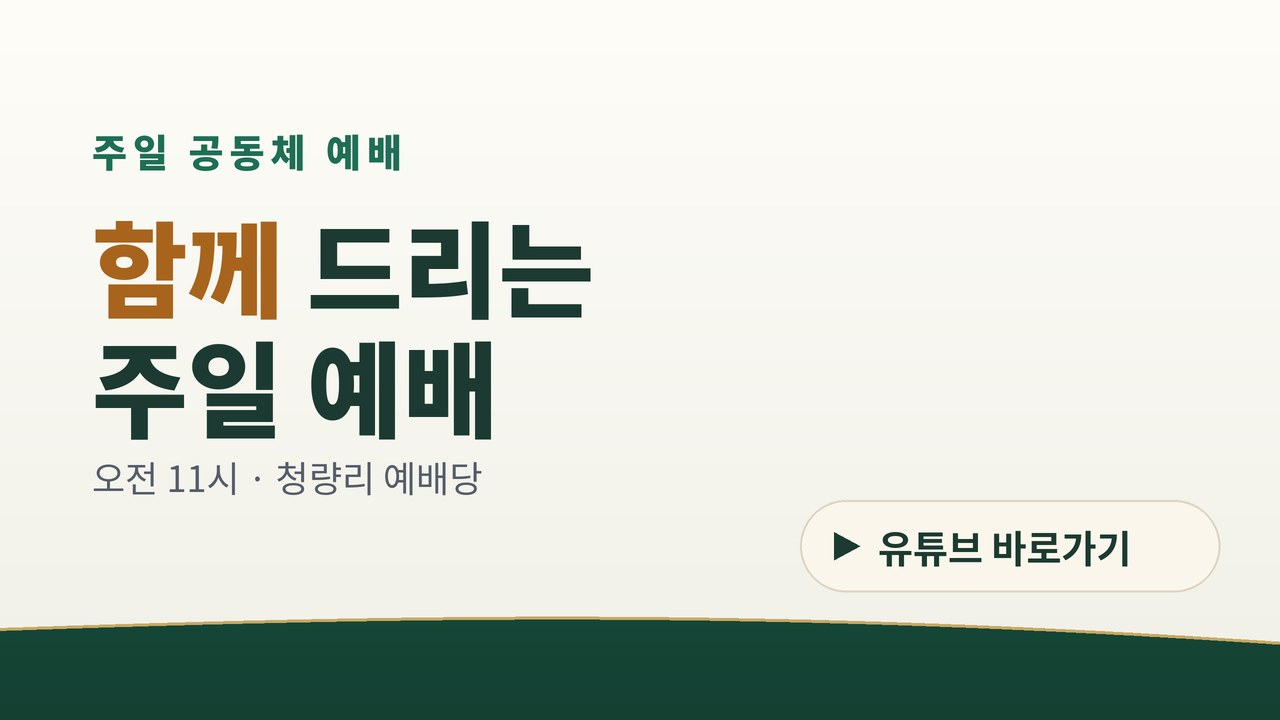
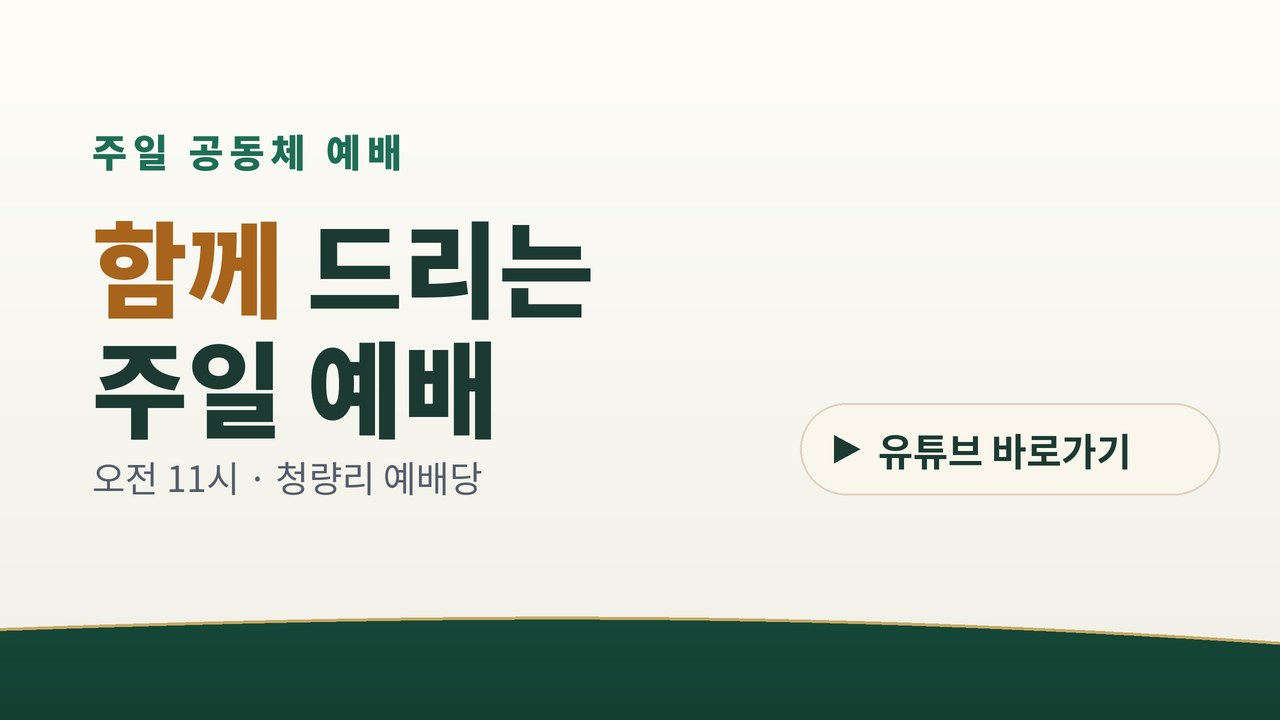
주일·새벽 배너: 그림 윗선·버튼 아랫선 정렬 통일
Claude-Session: https://claude.ai/code/session_01SUQQLDh1VZ9DJkmDKHFesn

Changed region(s): [[0.625, 0.5806, 0.9375, 0.7028], [0.625, 0.7333, 0.9062, 0.7944]]

diff --git a/index.html b/index.html
@@ -718,7 +718,7 @@ function kidsBanner() {   // 어린이 채널 배너(표지 1장) → 채널로 
 const SUNDAY_LIST = 'https://www.youtube.com/playlist?list=PLXuDDjm7EXZo', DAWN_LIST = 'https://www.youtube.com/playlist?list=PLderqM7aVwPk';   // 재생목록 주소를 받으면 여기만 바꾼다
 // 주일 카드: 절기별 배너(마지막 날짜까지). 이후는 기본 배너. 미리보기는 주소 끝에 ?d=2026-12-06
 const SUNDAY_SEASON = [['2026-11-22', 'sunday-creation'], ['2026-12-23', 'sunday-advent'], ['2026-12-30', 'sunday-christmas'], ['2027-01-03', 'sunday-newyear'], ['2027-02-09', 'sunday-epiphany'], ['2027-03-27', 'sunday-lent']];
-const IMG_V = '?v=20261119h';   // 배너 이미지를 바꿀 때 이 날짜도 바꾼다(휴대폰에 남은 옛 이미지 방지)
+const IMG_V = '?v=20261119i';   // 배너 이미지를 바꿀 때 이 날짜도 바꾼다(휴대폰에 남은 옛 이미지 방지)
 function listCard(href, src, label) {   // 가로 배너 한 장 → 유튜브 재생목록
   const t = make('a', 'vthumb kbanner'); t.href = href; t.target = '_blank'; t.rel = 'noopener'; t.setAttribute('aria-label', label);
   const img = make('img'); img.src = src + IMG_V; img.alt = label; img.loading = 'lazy'; img.decoding = 'async'; t.append(img); return t;

diff --git a/CLAUDE.md b/CLAUDE.md
@@ -13,7 +13,7 @@
   - 주일 줄: 절기별 배너. `index.html`의 `SUNDAY_SEASON`에 [마지막 날짜, 파일 이름]을 날짜순으로 적는다. 창조절 ~11/22 · 대림절 ~12/23 · 성탄절 12/24~12/30 · 신년 12/31~1/3 · 주현절 1/4~2/9 · 사순절 2/10~3/27 (`videos/sunday-*.jpg`). 마지막 날짜가 지나면 `videos/sunday-default.jpg`. 미리보기는 주소 끝에 `?d=2026-12-25`.
   - 새벽 줄: `videos/dawn-banner.jpg`
   - 어린이 줄: `videos/kids-channel.jpg`
-  - 배너 규격 1280×720. 안 문구는 특정 설교가 아니라 안내 문구('함께 드리는 주일 예배' 등)로 두고, 주일·새벽 배너는 오른쪽에 '▶ 유튜브 바로가기' 버튼(왼쪽은 안내 문구), 어린이 배너는 아래 가운데에 같은 크기의 같은 버튼. 배너 이미지를 바꾸면 index.html의 IMG_V 값도 바꾼다.
+  - 배너 규격 1280×720. 정렬: 오른쪽 그림 윗선=왼쪽 절기 라벨 윗선, 버튼 아랫선=시간 줄 아랫선(버튼 y=403). 안 문구는 특정 설교가 아니라 안내 문구('함께 드리는 주일 예배' 등)로 두고, 주일·새벽 배너는 오른쪽에 '▶ 유튜브 바로가기' 버튼(왼쪽은 안내 문구), 어린이 배너는 아래 가운데에 같은 크기의 같은 버튼. 배너 이미지를 바꾸면 index.html의 IMG_V 값도 바꾼다.
   - 연결 주소: `SUNDAY_LIST`·`DAWN_LIST`(재생목록), `KIDS_CHANNEL`
 - **영상 모두 보기 페이지는 없다** (2026.11.19 닫음). 지난 영상은 각 영상 표지를 눌러 유튜브에서 본다(홈에 채널 링크 줄은 두지 않는다, 2026.11.19).
 - **표지**
